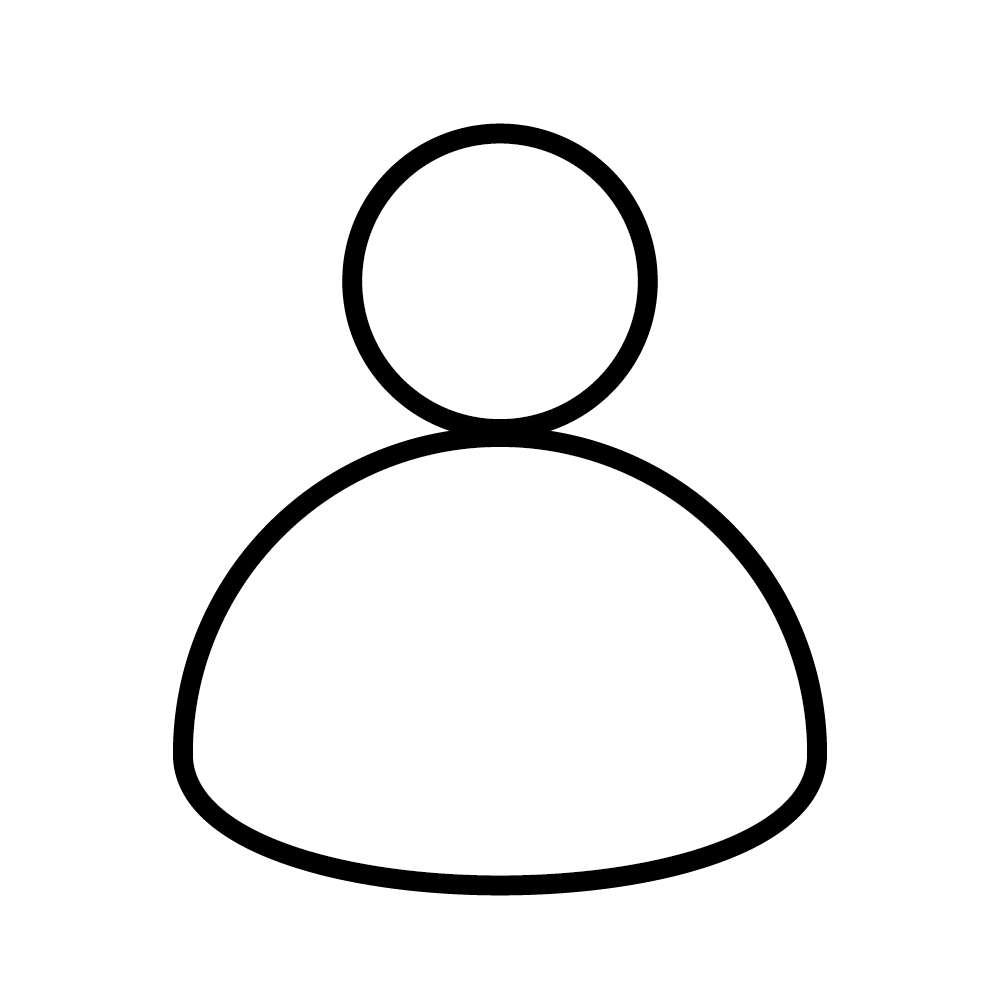
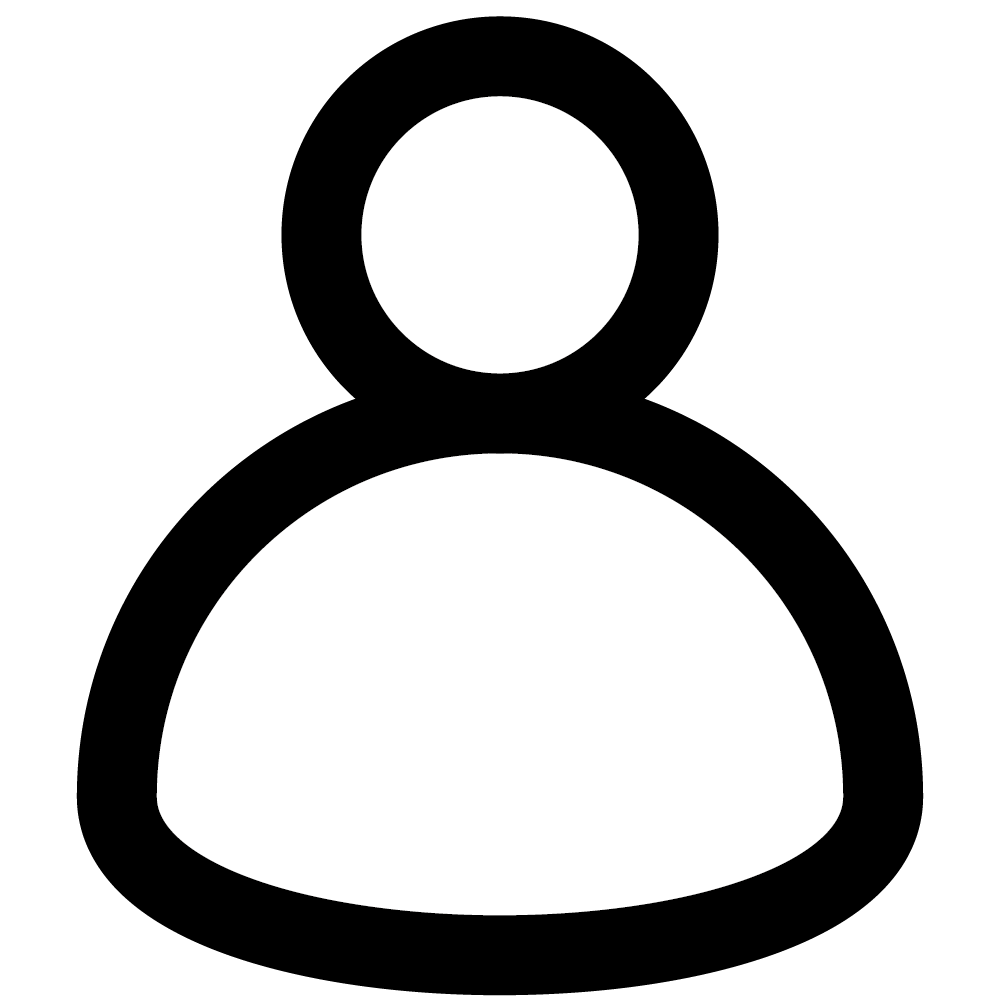
Affichage parfait du panelJoueurs

Changed region(s): [[0.062, 0.0, 0.93, 1.0]]

diff --git a/src/ihm/PanelJoueurs.java b/src/ihm/PanelJoueurs.java
@@ -2,13 +2,16 @@ package src.ihm;
 
 import java.awt.BorderLayout;
 import java.awt.Color;
-import java.awt.Dimension;
 import java.awt.Graphics;
 import java.awt.GridLayout;
+import java.awt.Image;
+import java.awt.image.BufferedImage;
+import java.io.File;
+import java.io.IOException;
 import java.util.ArrayList;
 
+import javax.imageio.ImageIO;
 import javax.swing.*;
-import javax.swing.border.EmptyBorder;
 
 import src.metier.Joueur;
 import src.Controleur;
@@ -63,7 +66,7 @@ public class PanelJoueurs extends JPanel{
 
         JScrollPane sp = new JScrollPane(this.panelSp);
 
-        //sp.setHorizontalScrollBarPolicy(JScrollPane.HORIZONTAL_SCROLLBAR_ALWAYS);
+        sp.setHorizontalScrollBarPolicy(JScrollPane.HORIZONTAL_SCROLLBAR_ALWAYS);
         this.add(sp, BorderLayout.CENTER);
 
     }
@@ -85,14 +88,14 @@ public class PanelJoueurs extends JPanel{
             int nbWagon = joueur.getNbWagon();
             int nbCarteObjectif = joueur.getCartesObjectif().size();
             int nbCarteVehicule = joueur.getCartesVehicule().size();
-            Color couleur = joueur.getCouleur();
+            Color couleur = joueur.getCouleur();            
 
             this.lblNom = new JLabel(nom, SwingConstants.CENTER);
             this.lblNom.setFont(this.lblNom.getFont().deriveFont(20f));
-            this.lblPoint = new JLabel( point +  " Point" + (point>1?"s":""));
-            this.lblNbWagon = new JLabel( nbWagon + (nbWagon>1?" Wagons restants":" Wagon restant"));
-            this.lblNbCarteObjectif = new JLabel( nbCarteObjectif + (nbCarteObjectif>1?" Cartes objectifs":" Carte objectif"));
-            this.lblNbCarteVehicule = new JLabel( nbCarteVehicule + (nbCarteVehicule>1?" Cartes vehicules":" Carte vehicule"));
+            this.lblPoint = new JLabel( String.format("%3d",point) +  " Point" + (point>1?"s":""));
+            this.lblNbWagon = new JLabel( String.format("%3d",nbWagon) + (nbWagon>1?" Wagons restants":" Wagon restant"));
+            this.lblNbCarteObjectif = new JLabel( String.format("%3d",nbCarteObjectif) + (nbCarteObjectif>1?" Cartes objectifs":" Carte objectif"));
+            this.lblNbCarteVehicule = new JLabel( String.format("%3d",nbCarteVehicule) + (nbCarteVehicule>1?" Cartes vehicules":" Carte vehicule"));
 
             this.panelInfo = new JPanel();
             this.panelPoint = new JPanel();
@@ -105,13 +108,19 @@ public class PanelJoueurs extends JPanel{
             
             //Création du layout
             this.setLayout(new BorderLayout());
-            this.panelInfo.setLayout(new GridLayout(3,1));
-            this.panelPoint.setLayout(new GridLayout(2,1));
+            this.panelInfo.setLayout(new GridLayout(3,1, 0 , 8));
+            this.panelPoint.setLayout(new BorderLayout());
             //positionnement des composant
             
-            
-            //this.panelPoint.add();
-            this.panelPoint.add(this.lblPoint);
+            try {
+                File file = new File("src/data/images/Joueur.png");
+                
+                BufferedImage img = PanelJoueurs.replace(ImageIO.read(file), Color.WHITE.getRGB(), couleur.getRGB());
+                this.panelPoint.add(new JLabel(new ImageIcon(img.getScaledInstance(45, 45, Image.SCALE_SMOOTH))), BorderLayout.CENTER);
+            } catch (IOException e) {
+                e.printStackTrace();
+            }
+            this.panelPoint.add(this.lblPoint, BorderLayout.SOUTH);
 
             this.panelInfo.add(this.lblNbWagon);
             this.panelInfo.add(this.lblNbCarteObjectif);
@@ -132,13 +141,24 @@ public class PanelJoueurs extends JPanel{
         //TODO
     }
 
-    public void paintComponent (Graphics g)
-	{
-		super.paintComponent(g);
-		
-		
-		g.setColor(Color.BLACK);
-        g.drawOval(150, 150, 15, 15);
-
-	}
+    public static BufferedImage replace(BufferedImage image, int target, int preferred) {
+        int width = image.getWidth();
+        int height = image.getHeight();
+        BufferedImage newImage = new BufferedImage(width, height, image.getType());
+        int color;
+    
+        for (int i = 0; i < width; i++) {
+            for (int j = 0; j < height; j++) {
+                color = image.getRGB(i, j);
+                if (color == target) {
+                    newImage.setRGB(i, j, preferred);
+                }
+                else {
+                    newImage.setRGB(i, j, color);
+                }
+            }
+        }
+    
+        return newImage;
+    }
 }

diff --git a/src/metier/Metier.java b/src/metier/Metier.java
@@ -80,6 +80,15 @@ public class Metier {
         this.lstJoueurs.add(new Joueur("Eragon7237", -52));
         this.lstJoueurs.add(new Joueur("Bou",  2500));
         this.lstJoueurs.add(new Joueur("erasmamael", 556));
+        this.lstJoueurs.add(new Joueur("Eragon7237", -52));
+        this.lstJoueurs.add(new Joueur("Bou",  2500));
+        this.lstJoueurs.add(new Joueur("erasmamael", 556));
+        this.lstJoueurs.add(new Joueur("Eragon7237", -52));
+        this.lstJoueurs.add(new Joueur("Bou",  2500));
+        this.lstJoueurs.add(new Joueur("erasmamael", 556));
+        this.lstJoueurs.add(new Joueur("Eragon7237", -52));
+        this.lstJoueurs.add(new Joueur("Bou",  2500));
+        this.lstJoueurs.add(new Joueur("erasmamael", 556));
 
 
     }
